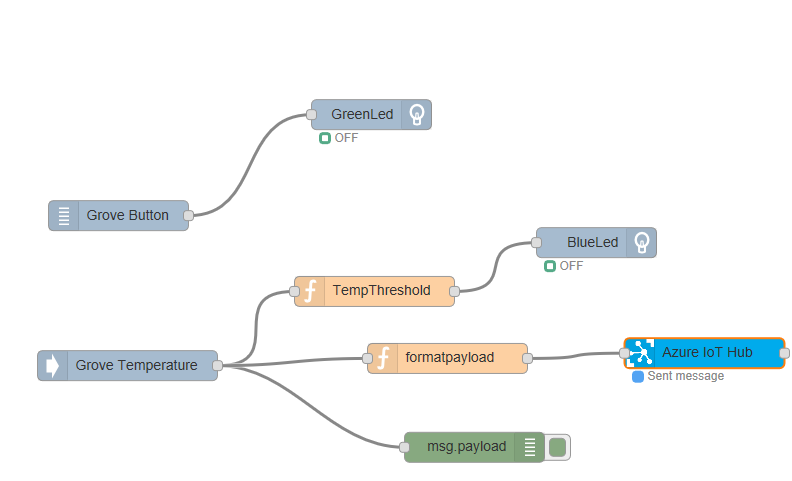
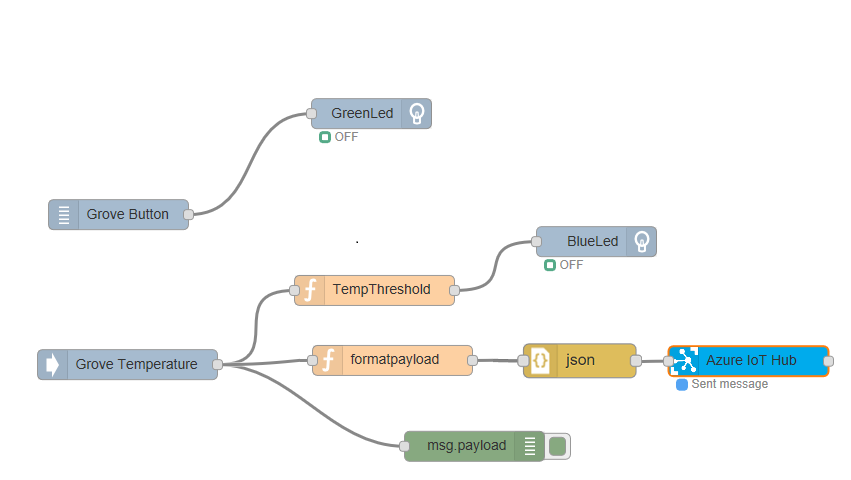
add JSON converter to flow

Changed region(s): [[0.0303, 0.4688, 1.0, 0.9688], [0.0303, 0.1875, 0.5455, 0.5]]

diff --git a/02. Internet of Things - Hands on Lab/node-red_lab_3.md b/02. Internet of Things - Hands on Lab/node-red_lab_3.md
@@ -57,7 +57,7 @@ In the Node-RED flow you created before, add a new function node and connect it 
     return msg;
 ```
 
-Then add an *azureiothub* node, and set the connection string you got for your device, not the general IoT Hub connection string, but the particular one for the device. The one you got before for the device using the *iothub-explorer*. You will end with a diagram similar to this one:
+Then add an *azureiothub* node, and set the connection string you got for your device, not the general IoT Hub connection string, but the particular one for the device. The one you got before for the device using the *iothub-explorer*. Finally, prior to sending the payload you must convert it to a JSON string, this can be done directly in your function using the `JSON.stringify` method or you can add a simple *JSON node* that will convert it for you. You will end with a diagram similar to this one:
 
 ![FormatPayload](./images/formatpayload.png "Payload to Azure")
 
